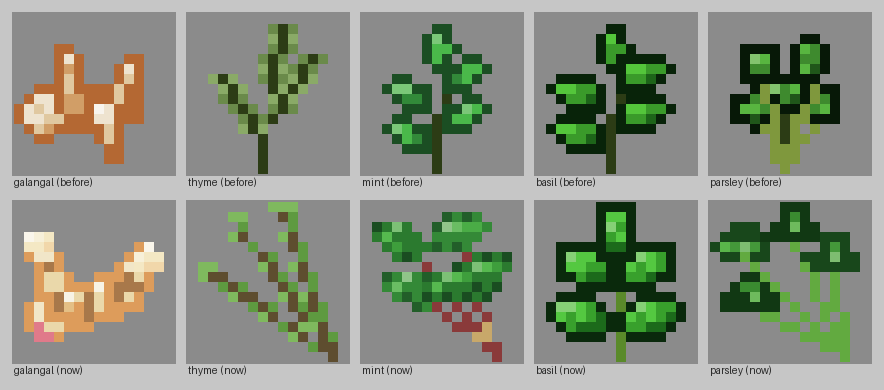
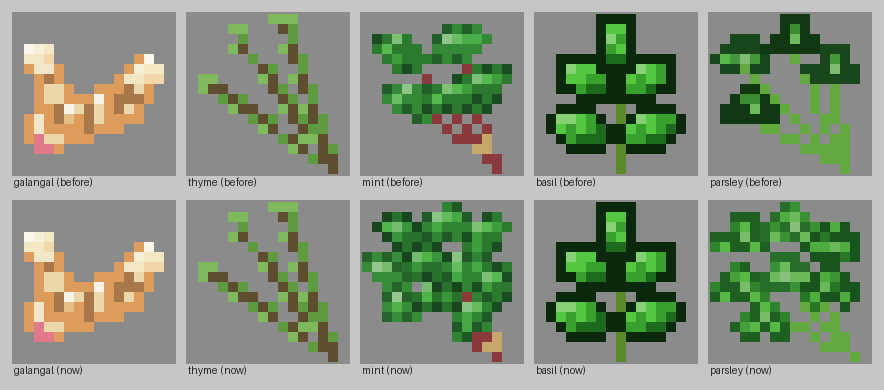
Draw mint and parsley as leafy bunches
Leaves now fill most of the icon, with only short stems gathered at the bottom
right, as a bunch looks.

Claude-Session: https://claude.ai/code/session_015LnbBras9DEmUQEKydUTyp

diff --git a/.workflow/art/item_sprites.py b/.workflow/art/item_sprites.py
@@ -1538,20 +1538,23 @@ def thyme_hand():
 
 def mint_hand():
     s = Sprite()
+    # Short reddish stems gathered and tied at the bottom right; the rest is a bushy mass of leaves.
     stem = ramp("#8a3a3a")
-    # Reddish stems gathered and tied at the bottom right.
-    for x1, y1 in ((4, 4), (9, 3), (6, 9)):
-        s.line(stem[BASE], 13, 15, x1, y1)
-    # Fewer, bigger oval leaves with serrated edges and a darker vein, layered from the back.
-    for i, (cx, cy, angle) in enumerate([(4.0, 3.8, 30), (9.6, 3.0, -15), (12.4, 7.2, -50), (5.0, 8.6, 15), (9.0, 8.4, -20)]):
-        tones = ramp("#4aac46" if i % 2 else "#3e9e3c", spread=0.75)
-        mask = s.ellipse(tones, cx, cy, 3.0, 1.9, angle=angle)
+    for x0, y0 in ((8, 10), (10, 9), (12, 10), (9, 12)):
+        s.line(stem[BASE], 13, 15, x0, y0)
+    shades = ["#3a963a", "#46a842", "#3e9e3c", "#52b04a"]
+    # Oval leaves layered from the back of the bunch to the front, filling most of the icon.
+    leaves = [(4.0, 3.0, 25), (8.4, 2.2, -10), (12.2, 3.6, -40), (2.6, 7.0, 50), (6.4, 6.0, 10), (10.6, 6.6, -30),
+              (13.2, 8.4, -60), (4.0, 10.4, 30), (7.8, 9.6, -5), (11.0, 11.6, -40)]
+    for i, (cx, cy, angle) in enumerate(leaves):
+        tones = ramp(shades[i % len(shades)], spread=0.75)
+        mask = s.ellipse(tones, cx, cy, 2.7, 1.8, angle=angle)
         for x, y in mask:
             if (x + y) % 2 == 0 and s.pixels[y][x] == tones[OUTLINE]:
                 s.put(x, y, tones[SHADOW])  # A toothed edge.
-        s.line(tones[SHADOW], int(cx - 1), int(cy), int(cx + 1), int(cy))
+        s.put(int(cx), int(cy), tones[SHADOW])  # The vein.
         s.put(int(cx) - 1, int(cy) - 1, tones[HIGHLIGHT])
-    s.pixels_at(ramp("#c8a86a")[BASE], [(11, 13), (12, 13), (12, 12)])
+    s.pixels_at(ramp("#c8a86a")[BASE], [(12, 14), (13, 14), (13, 13)])
     return s
 
 
@@ -1569,16 +1572,20 @@ def basil_hand():
 
 def parsley_hand():
     s = Sprite()
+    # Short stems gathered at the bottom right; the rest is a dense mass of flat, toothed, three-lobed leaves.
     stem = ramp("#62aa40")
-    # Long stems gathered at the bottom right, fanning up to flat, toothed leaves.
-    clusters = [(3.4, 4.0), (8.4, 2.6), (12.4, 5.4), (4.0, 9.4)]
-    for cx, cy in clusters:
-        s.line(stem[BASE], 13, 15, int(cx), int(cy) + 1)
+    for x0, y0 in ((9, 10), (11, 10), (12, 12), (8, 12)):
+        s.line(stem[BASE], 14, 15, x0, y0)
+    clusters = [(3.2, 3.4), (8.0, 2.4), (12.4, 4.0), (3.0, 8.4), (7.6, 7.2), (11.8, 8.6), (5.4, 11.8)]
     for i, (cx, cy) in enumerate(clusters):
-        tones = ramp("#3a8c30" if i % 2 else "#44983a", spread=0.75)
-        # Three-lobed leaves with toothed edges and a lighter centre.
-        for dx, dy in ((-1.3, 0.5), (1.3, 0.5), (0.0, -1.1)):
-            s.ellipse(tones, cx + dx, cy + dy, 1.7, 1.4, texture=speckle(i * 7 + 3, 0.25, up=1, down=0))
+        tones = ramp(["#46a03a", "#52ac44", "#3e9434"][i % 3], spread=0.6)
+        # Three toothed lobes per leaf, each with a light centre so the leaves stay distinct.
+        for dx, dy in ((-1.4, 0.6), (1.4, 0.6), (0.0, -1.1)):
+            mask = s.ellipse(tones, cx + dx, cy + dy, 1.7, 1.4)
+            for x, y in mask:
+                if (x * 3 + y) % 4 == 0 and s.pixels[y][x] == tones[OUTLINE]:
+                    s.put(x, y, tones[SHADOW])
+            s.put(int(cx + dx), int(cy + dy), tones[LIGHT])
         s.put(int(cx), int(cy), tones[HIGHLIGHT])
     return s
 
